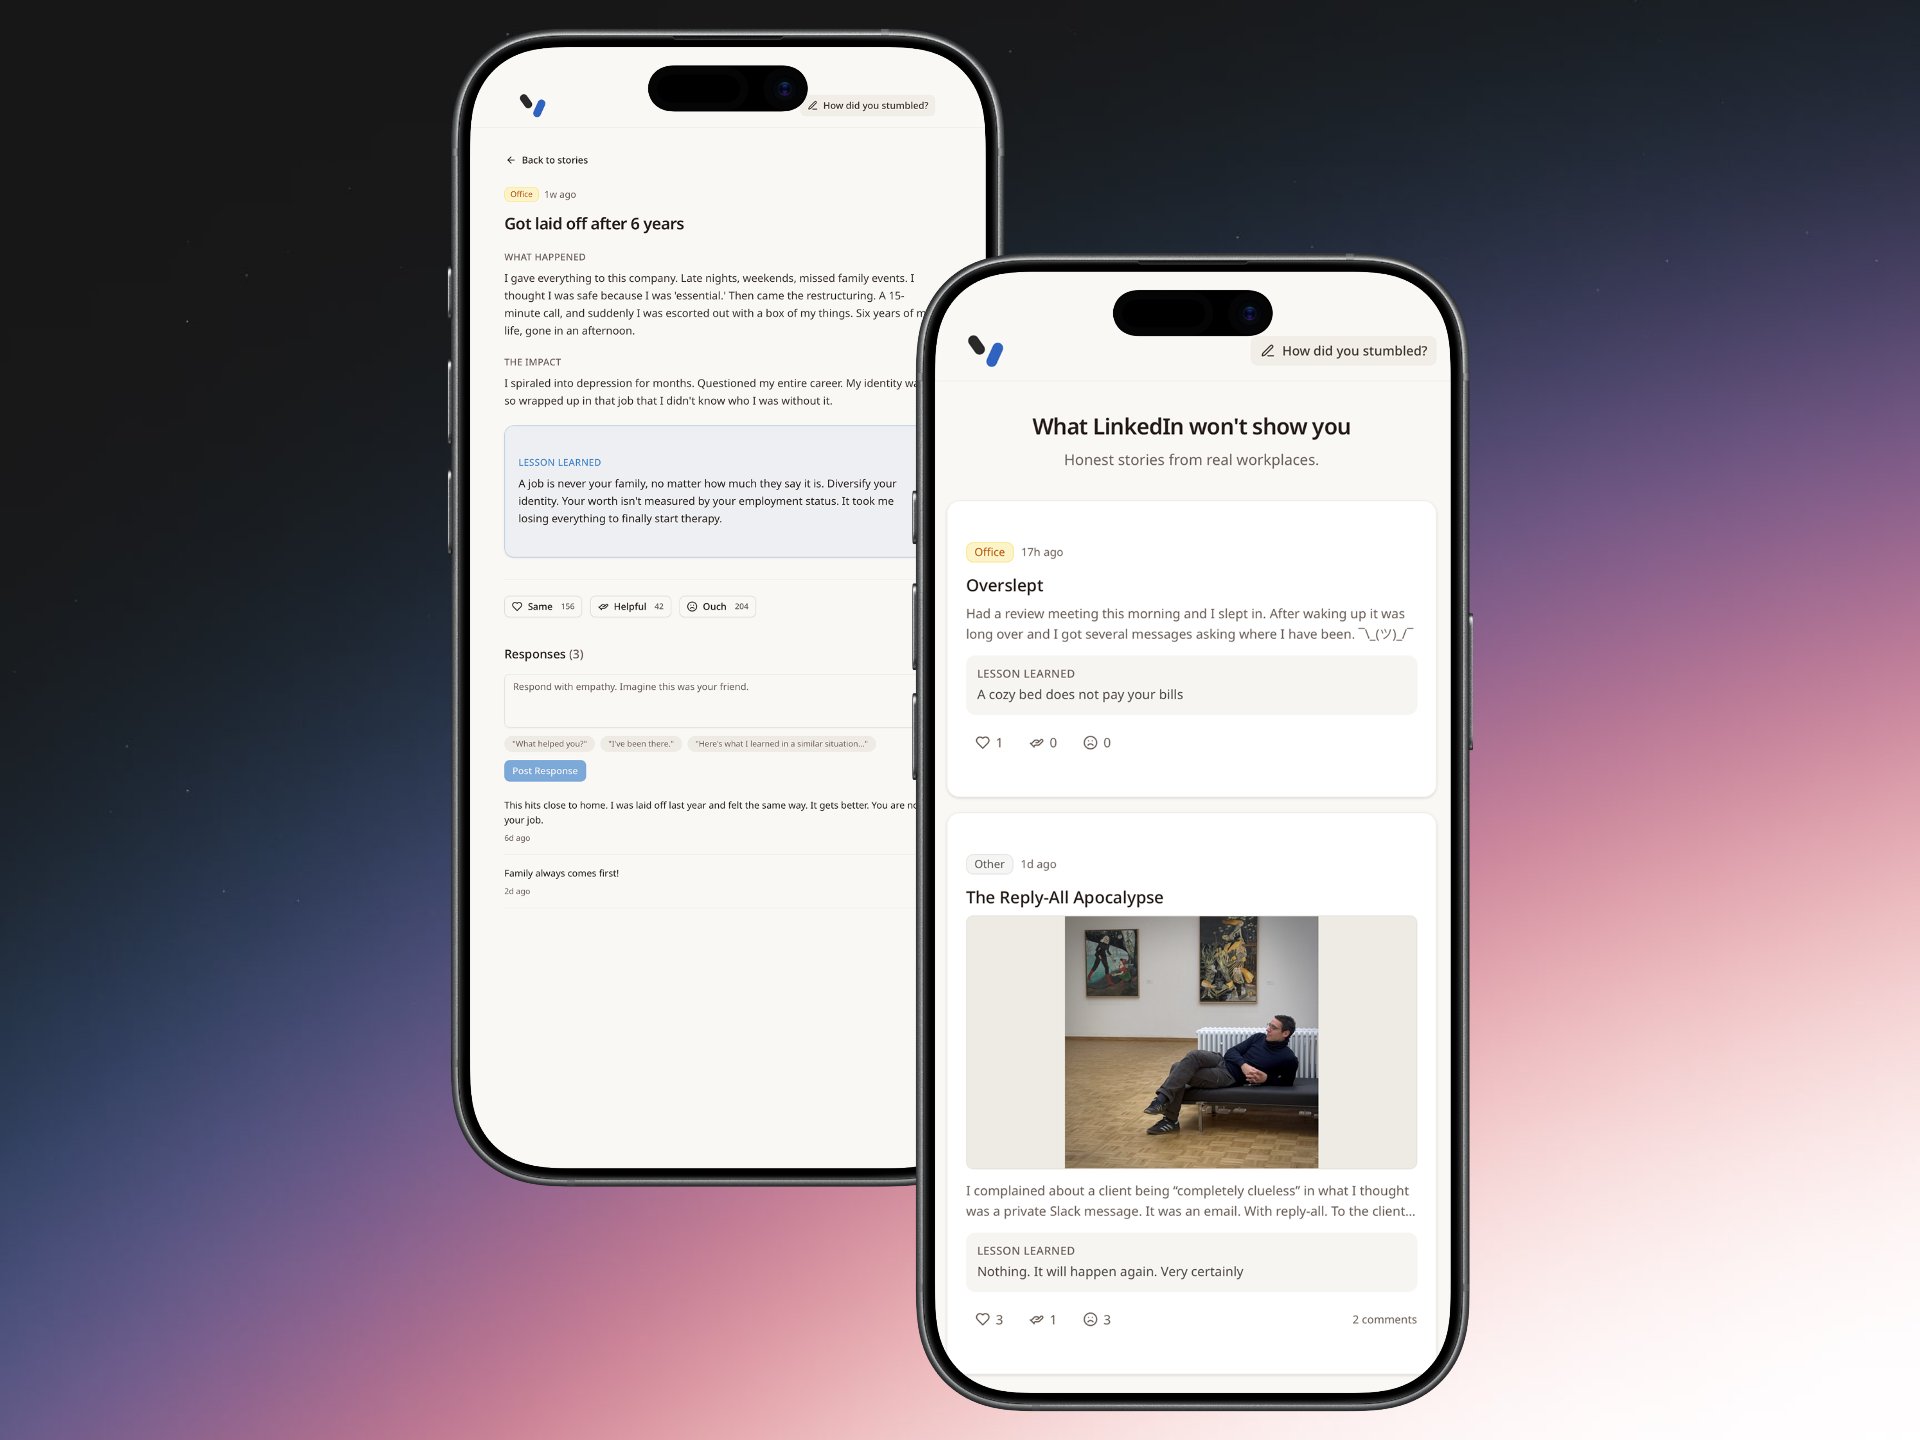
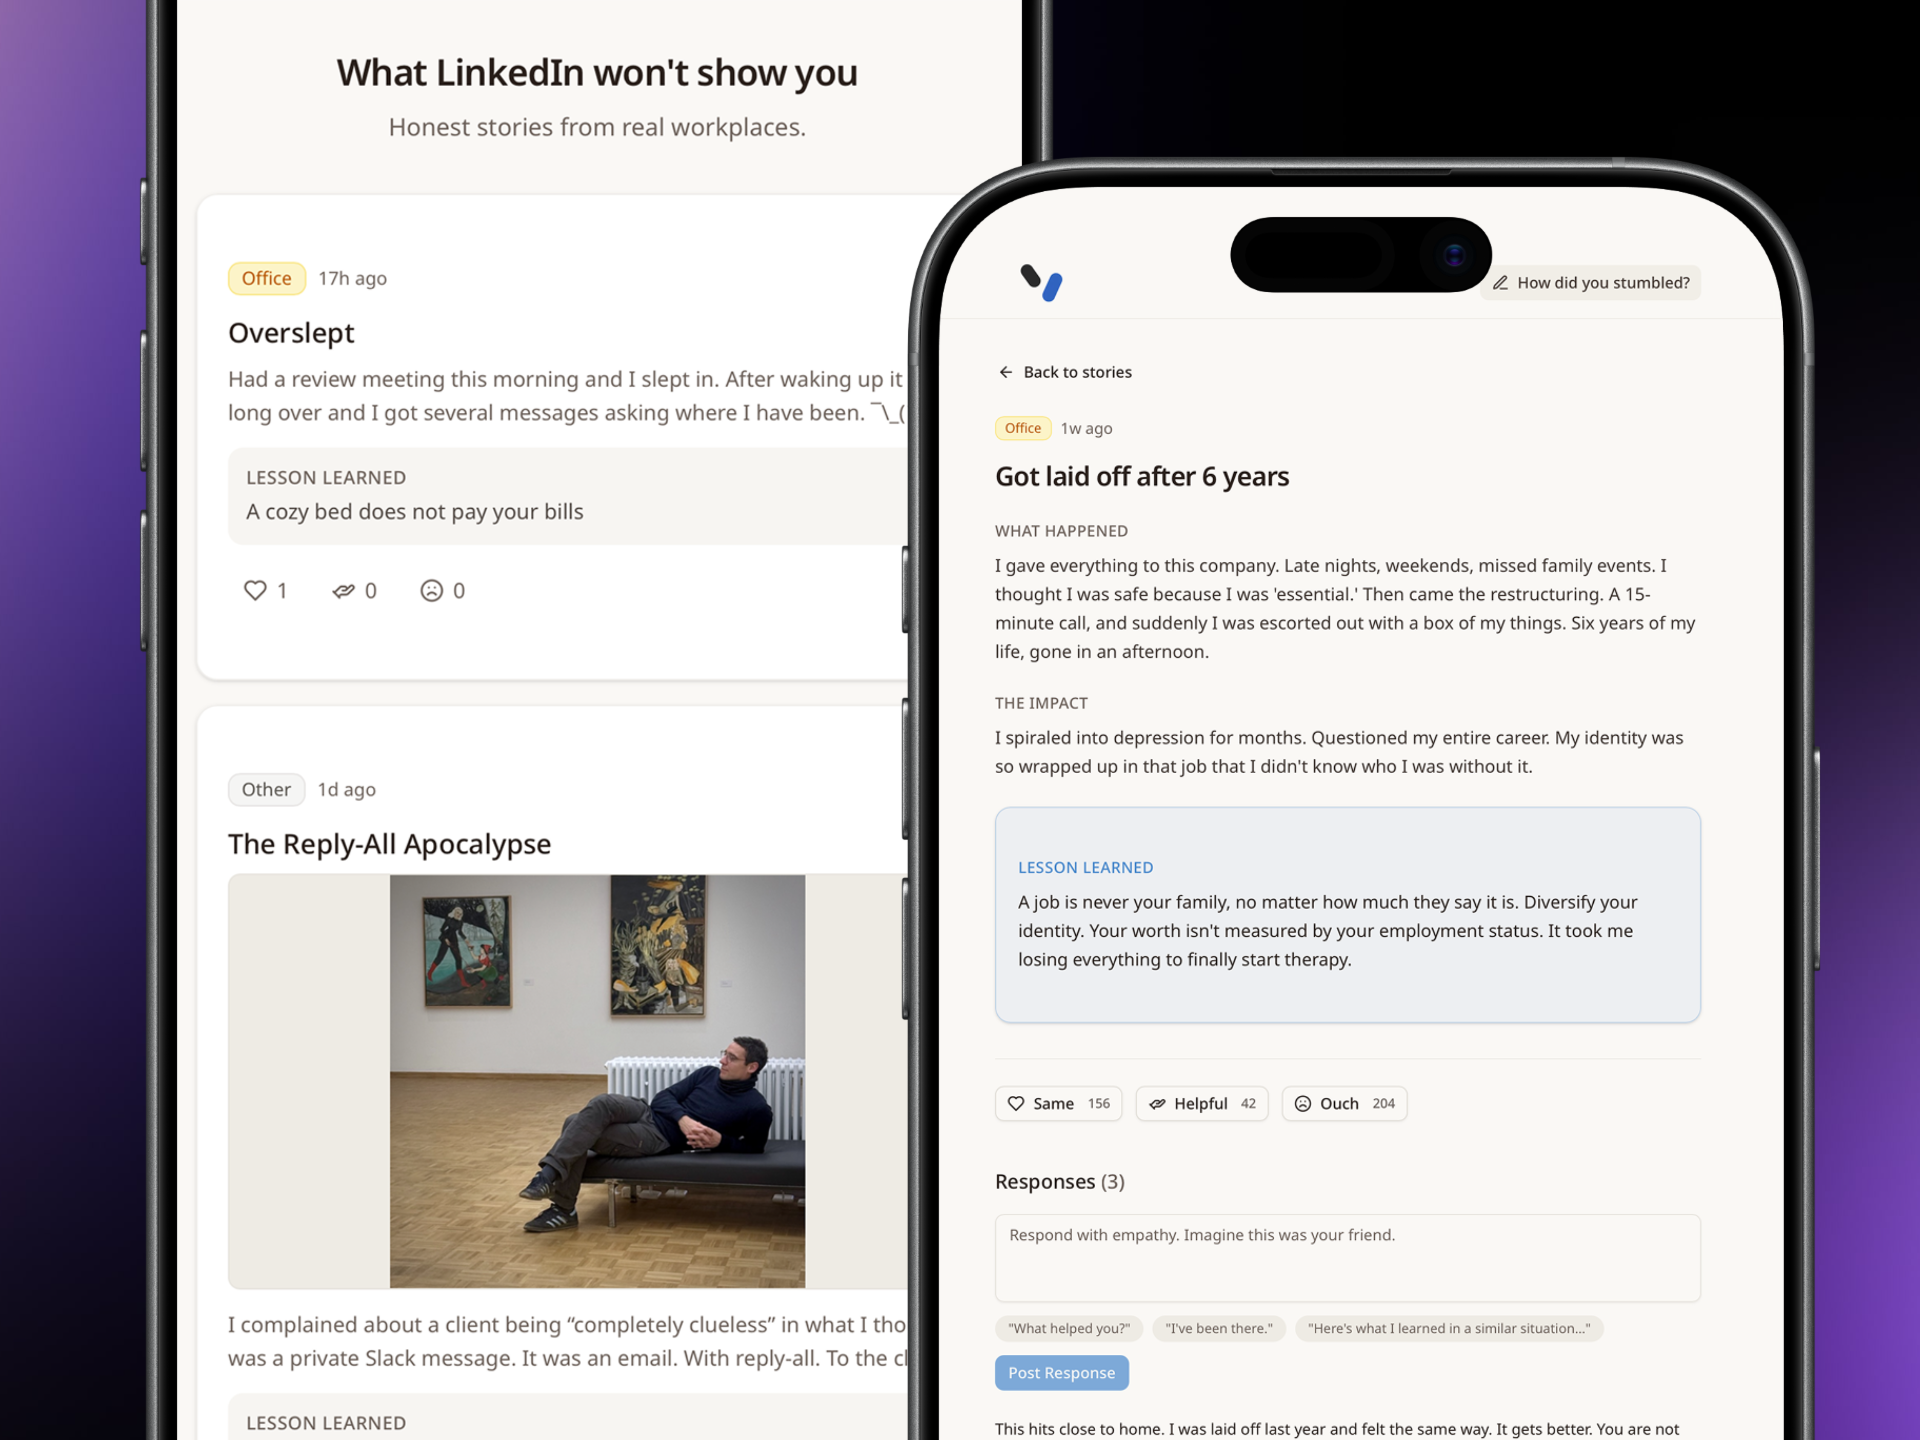
image change

diff --git a/app/work/page.tsx b/app/work/page.tsx
@@ -6,7 +6,7 @@ export default function WorkPage() {
     {
       title: "Stumble - what LinkedIn don't shows",
       description: "Honest stories from real workplaces. Everyone messes up. Talking about it helps.",
-      year: "20256",
+      year: "2026",
       link:"https://stumble.blog",
       
       tech: ["Vercel", "Next.js", "Tailwind", "Prisma", "Postgres"],
